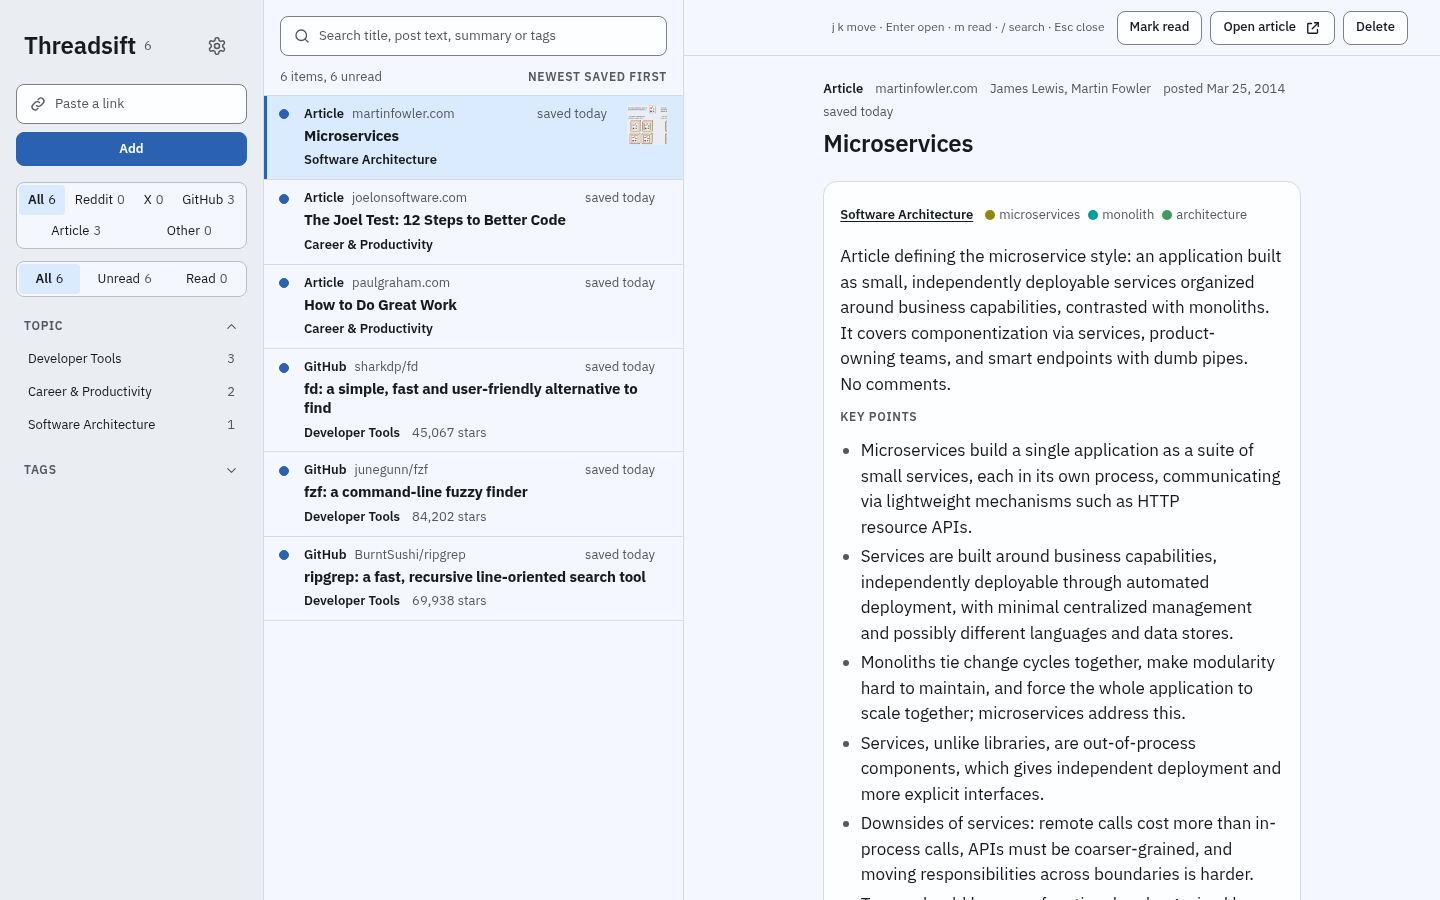
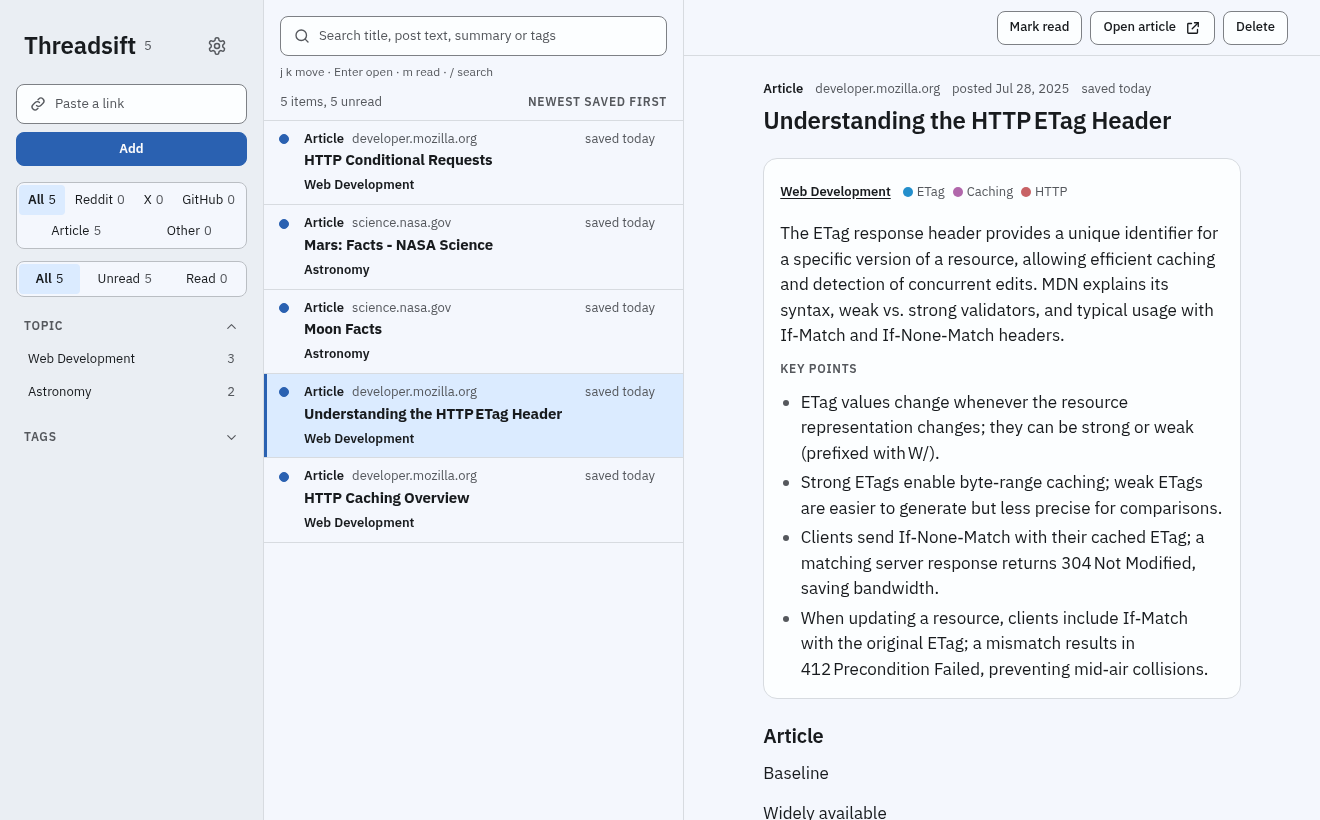
docs: show Threadsift in the README
Record a public MDN link becoming a Digest. Show the Reader, Highlights
page, and an Astronomy Topic page in Library, Monocle, and Modal.
Put the container and Cloudflare requirements side by side and link to
a step-by-step Cloudflare CLI guide. Update the spec and architecture
status to reflect the README.

Sources:
https://docs.github.com/en/get-started/writing-on-github/getting-started-with-writing-and-formatting-on-github/basic-writing-and-formatting-syntax#images
https://docs.github.com/en/rest/markdown/markdown#render-a-markdown-document
https://github.com/sindresorhus/github-markdown-css/tree/7f38dcb9054bc5d860fac65291f5c98fef47932c
https://developers.cloudflare.com/workers/platform/pricing/
https://developers.cloudflare.com/workers/wrangler/commands/workers/
https://developers.cloudflare.com/r2/get-started/cli/
https://developers.cloudflare.com/workers-ai/configuration/open-ai-compatibility/
https://docs.podman.io/en/stable/markdown/podman-run.1.html
https://ffmpeg.org/ffmpeg-filters.html#palettegen
https://github.com/KyaniteHQ/threadsift/blob/0b41303f2686c4099f01f42191528886fd050712/docs/architecture/cloudflare-deploy-button.md
https://developers.cloudflare.com/workers/wrangler/configuration/#automatic-provisioning

diff --git a/README.md b/README.md
@@ -1,14 +1,32 @@
 # Threadsift
 
-Threadsift is a reading library for the links you save and never get back to. Paste a link to a Reddit post or comment, a GitHub repo or an article. Threadsift fetches it, and an agent keeps only the comments that add something, then writes a Topic, Tags, a two-line Summary and Key points. Everything you saved reads, searches and filters on one page, and you run it on your own machine.
+Threadsift is a self-hosted reading library for saved links. Paste a link to a Reddit post or comment, an X post, a GitHub repository, or an article. With a Provider set up, the agent turns the fetched text into a Digest with a Topic, Tags, a two-line Summary, and Key points. For threads, the agent picks the comments that add something. Search and filter your Items in the library and open one in the Reader.
 
-![Threadsift with six saved Items: the filters on the left, the list in the middle, and an article open in the Reader with its Topic, Tags, Summary and Key points](docs/assets/reader.png)
+![Threadsift library with Astronomy and Web Development filters and an article about HTTP ETags open in the Reader with its Digest](docs/assets/reader.png)
 
 v1 is not released, so do not use Threadsift for real yet.
 
+## From a Paste to a Digest
+
+![A Paste of an MDN article on HTTP conditional requests shows its progress. The Reader then displays the Digest with its Summary and Key points.](docs/assets/paste-to-digest.gif)
+
+The recording and screenshots use a library of public links. The recording skips part of the wait for the Digest.
+
+## Keep Highlights and Notes
+
+Select a passage of the post text or of a comment in the Reader to keep it as a Highlight. You can also write a Note on the Item. The Highlights page gathers both and links back to the Reader.
+
+![Highlights page with saved passages and a Note from the library's public articles](docs/assets/highlights.png)
+
 ## Let the agent keep a wiki of the library
 
-As Items arrive, the agent writes a Topic page for each Topic, the Index of every Topic, up to 5 Related Items for each new Item, and the Log of its changes. Once a week it also looks for problems in the library, such as two Tags that mean the same thing, and lists each one as a Proposal. Nothing changes until you accept it. [docs/wiki.md](docs/wiki.md) and [docs/proposals.md](docs/proposals.md) describe both.
+As Items arrive, the agent writes an overview for each Topic page and picks up to five Related Items for each new Item. The Index lists the Topics and the Log records changes. Read how they fit together in the [library wiki guide](docs/wiki.md). The agent checks the library each week and may suggest changes such as merging two Tags. You choose which [Proposals](docs/proposals.md) to accept.
+
+The screenshots show the same Topic page in three Styles: Library, Monocle, and Modal.
+
+| Library · Light | Monocle · Sepia | Modal · Dark |
+| --- | --- | --- |
+| ![Astronomy Topic page in the Library Style and Light Theme](docs/assets/topic-library.png) | ![Astronomy Topic page in the Monocle Style and Sepia Theme](docs/assets/topic-monocle.png) | ![Astronomy Topic page in the Modal Style and Dark Theme](docs/assets/topic-modal.png) |
 
 ## Save from wherever you are
 
@@ -21,11 +39,18 @@ As Items arrive, the agent writes a Topic page for each Topic, the Index of ever
 
 ## Bring your own AI
 
-Threadsift has no AI of its own. In Settings you pick one Provider, and the agent uses it for every Digest (its output for one Item). On the container you can choose an API key for Anthropic, OpenAI, xAI, OpenRouter or any OpenAI-compatible address. You can also choose Claude Code or Codex signed in on your server, which runs the Digests on your Claude or ChatGPT plan, or Grok Bot. [Set up a Provider](docs/guides/providers.md) covers the last three.
+Pick a Provider in Settings to run the agent. Both install routes support Anthropic, OpenAI, xAI, OpenRouter, an OpenAI-compatible address, or Grok Bot. The container also supports Claude Code and Codex signed in on your server. On Cloudflare you can use Workers AI, and an OpenAI-compatible address must use public HTTPS. See [how to set up a Provider](docs/guides/providers.md).
 
-## Try it on your machine
+## Install Threadsift
 
-You need [Podman](https://podman.io/docs/installation), `openssl`, and bash or zsh. On macOS and Windows, start a Podman machine first.
+| Container | Cloudflare |
+| --- | --- |
+| A machine that can run Podman or Docker, a persistent data volume, and a secret key. The commands below use Podman, `openssl`, and Bash or Zsh. | A Cloudflare account on the Workers Paid plan ($5 a month), with D1, R2, Queues, and Workers AI. Clone the repository and install its dependencies with Node 26 or later and pnpm. Sign in to Cloudflare with Wrangler and keep the setup code and secret key in a private JSON file. |
+| [Start the container](README.md#try-it-on-your-machine) | The deploy button is not available yet. [Deploy with the CLI](docs/guides/self-hosting.md#deploy-on-cloudflare) |
+
+### Try it on your machine
+
+Install [Podman](https://podman.io/docs/installation). On macOS and Windows, start a Podman machine first.
 
 1. Create the secret key. The command stops without changing a file that already exists.
 
@@ -50,14 +75,14 @@ You need [Podman](https://podman.io/docs/installation), `openssl`, and bash or z
    Until you choose a password, every start logs a new `Setup code: <code>` line, and only the newest code works. If the line is not there yet, run the command again after a few seconds.
 
 4. Open http://127.0.0.1:8080, enter the code and choose a password.
-5. Open Settings and choose a Provider. Have an API key from one of the vendors above ready, or install Claude Code or Codex on the container as [Set up a Provider](docs/guides/providers.md) shows. Press **Save**, then press **Verify**. Verify writes one small real Digest and adds no Item.
+5. Open Settings and choose a Provider. Follow the [Provider setup guide](docs/guides/providers.md) if your choice needs an API key, Claude Code or Codex on the container, or Grok Bot. Press **Save**, then press **Verify**. Verify writes one small real Digest and adds no Item.
 6. Paste your first link.
 
 The app answers on this machine only, over plain HTTP. To reach it from other devices, read [Run Threadsift on your own server](docs/guides/self-hosting.md).
 
 ## Status
 
-v1 is not ready for a library you want to keep. The status table at the top of [docs/architecture.md](docs/architecture.md) lists the parts that are not fully built. The container image is the install target you can run today. A Cloudflare Worker runs the same app, and its deploy button is not built yet.
+The [architecture status table](docs/architecture.md) lists the parts still in development.
 
 ## Find your way around
 

diff --git a/docs/guides/self-hosting.md b/docs/guides/self-hosting.md
@@ -1,6 +1,6 @@
 # Run Threadsift on your own server
 
-The README's "Try it on your machine" section starts an Instance. This guide covers what comes after.
+Start a container Instance with the [README's container instructions](../../README.md#try-it-on-your-machine), or deploy a Worker with the steps below.
 
 ## Pick an image tag
 
@@ -29,6 +29,46 @@ A key saved under a replacement `THREADSIFT_SECRET_KEY` opens only with that rep
 The app listens on plain HTTP, and the README's `podman run` command publishes port 8080 on `127.0.0.1` only. To reach it from other devices, put your own reverse proxy or tunnel in front of it, and let that give it HTTPS. The data stays in the `threadsift-data` volume.
 
 Add the external address to `~/threadsift.env` as one more line, `THREADSIFT_PUBLIC_ORIGIN=https://<your host>`, with no path and no trailing slash, then recreate the container. Without it, the app refuses MCP requests that come through the public host, and OpenRouter's Connect button does not work. The key file keeps the line, so every later run that passes `--env-file` keeps it too.
+
+## Deploy on Cloudflare
+
+Use a Cloudflare account on the Workers Paid plan, Node 26 or later, pnpm, and `openssl`.
+
+1. Clone the repository and install its dependencies, including Wrangler.
+
+   ```sh
+   git clone https://github.com/KyaniteHQ/threadsift.git
+   cd threadsift
+   pnpm install --frozen-lockfile
+   ```
+
+2. Sign in to the Cloudflare account where you want to run Threadsift.
+
+   ```sh
+   pnpm exec wrangler login
+   ```
+
+3. Turn on R2 in that account. The deploy command creates the D1 database, R2 bucket, and Queue named in [wrangler.jsonc](../../wrangler.jsonc) if they do not exist. It also applies the D1 migrations.
+4. Create the secrets file outside the checkout. This command stops if the file already exists.
+
+   ```sh
+   (set -Ceu; umask 077
+     key=$(openssl rand -hex 32)
+     code=$(openssl rand -hex 16)
+     printf '{"THREADSIFT_SECRET_KEY":"%s","SETUP_CODE":"%s"}\n' "$key" "$code" > "$HOME/threadsift-secrets.json"
+     chmod 600 "$HOME/threadsift-secrets.json"
+   )
+   ```
+
+5. Deploy from the checkout.
+
+   ```sh
+   pnpm run deploy --secrets-file "$HOME/threadsift-secrets.json"
+   ```
+
+6. Open the Worker URL that Wrangler prints. Enter the `SETUP_CODE` from your secrets file and choose an owner password. Back up the file so the Instance can still read its saved keys after a redeploy.
+
+The [Cloudflare architecture notes](../architecture/cloudflare-deploy-button.md) explain the bindings and how the command deploys the Worker.
 
 ## Update a Cloudflare copy
 

diff --git a/docs/spec.md b/docs/spec.md
@@ -474,7 +474,7 @@ Each agent token has a daily budget of new Items. Only a new Item counts, becaus
 - One codebase serves both: the database, the file store, the job queue and the AI caller each have one adapter per target.
 - The container image is pushed as `ghcr.io/kyanitehq/threadsift:main` on each push to `main`. The release workflow publishes a version tag for both architectures with provenance and moves `release` after the runtime checks pass (`docs/architecture/ci-releases-and-rollback.md`, Releases).
 - The owner's own Instance runs in the container on the owner's home server, at a public HTTPS address with the owner login, so Grok Bot can reach it.
-- **README.** It shows a hero screenshot of the Reader and the container install route. Not built: a short recording of a Paste turning into a Digest, screenshots of the Highlights page and a Topic page in several Styles, and the two deploy routes as buttons.
+- **README.** It shows a Paste turning into a Digest and screenshots of the Reader, the Highlights page and a Topic page in three Styles. The media comes from an Instance with a library of public links. The README lists the container and Cloudflare install routes side by side.
 
 ## Hosted product (after the first release)
 

diff --git a/docs/architecture.md b/docs/architecture.md
@@ -2,7 +2,7 @@
 
 | State | Part |
 |---|---|
-| Not built | The Cloudflare deploy button (`docs/architecture/cloudflare-deploy-button.md`), the Provider comparison that picks the default model, the contributor licence agreement workflow, and the README's recording, screenshots and deploy buttons |
+| Not built | The Cloudflare deploy button (`docs/architecture/cloudflare-deploy-button.md`), the Provider comparison that picks the default model, and the contributor licence agreement workflow |
 | Partly built | The Vault mirror copies Paste notes to GitHub and has Obsidian settings. Other Item changes, wiki notes and folder mode are Not built (`docs/architecture/vault-mirror.md`) |
 | Partly built | The Restore of every library record, the stored images and post text files, the search parts and the Highlight anchors is built (`docs/architecture/export-backup-and-restore.md`). Cancel, resume, the cleanup of abandoned parts and the setup page step are built |
 | Partly built | Grok Bot: no AI task other than the X link send has run against a real bot (`docs/architecture/open-items-and-unverified-claims.md`) |
